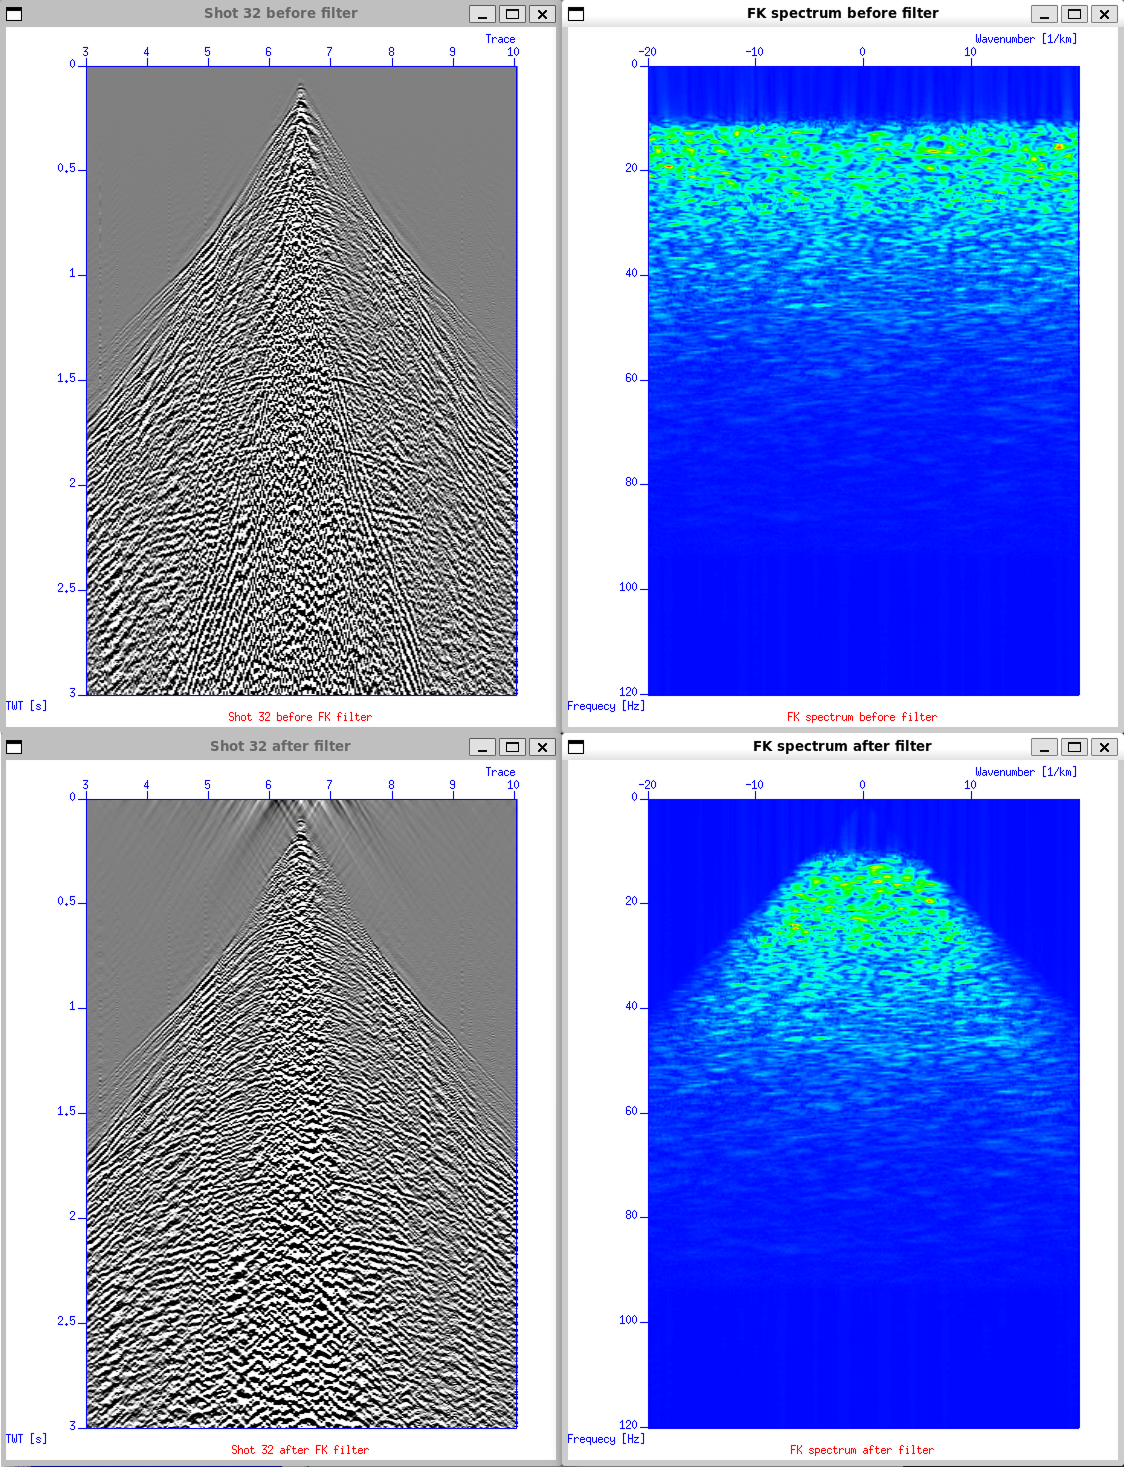
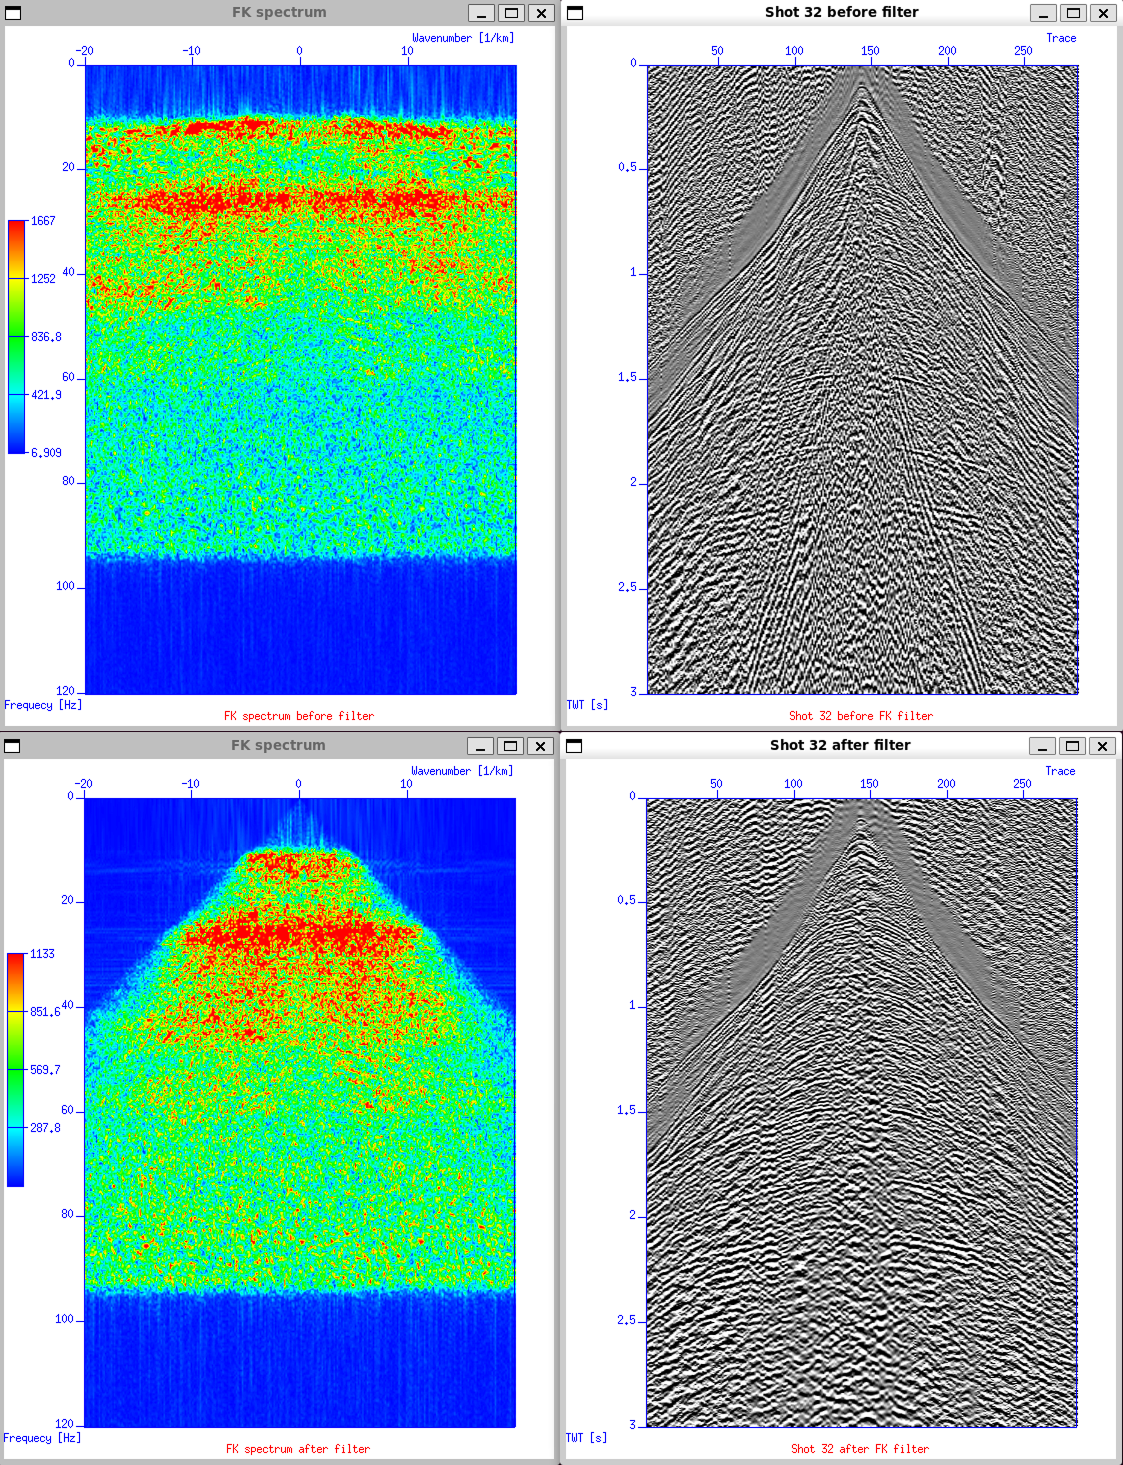
Update notes (migration)

diff --git a/Notes/5_noise_attenuation.md b/Notes/5_noise_attenuation.md
@@ -38,7 +38,7 @@ dx=0.025
 ep=32
 perc=80
 
-slopes=-0.5,-0.3,0.3,0.5
+slopes=-0.5,-0.2,0.2,0.5
 amps=0,1,1,0
 bias=0
 
@@ -57,7 +57,7 @@ suwind < $indata key=ep min=$ep max=$ep > tmp1
 suximage < tmp1 perc=$perc title="Shot $ep before FK filter" label1="TWT [s]" label2="Trace" windowtitle="Shot $ep before filter" &
 
 # Plot FK spectrum before filter
-suspecfk < tmp1 dt=$dt dx=$dx | suximage perc=97 cmap=hsv2 x1end=120 legend=1 title="FK spectrum before filter" label1="Frequecy [Hz]" label2="Wavenumber [1/km]" windowtitle="FK spectrum before filter" &
+suspecfk < tmp1 dt=$dt dx=$dx | suximage perc=97 cmap=hsv2 x1end=120 legend=1 title="FK spectrum before filter" label1="Frequecy [Hz]" label2="Wavenumber [1/km]" windowtitle="FK spectrum" &
 
 #-------------------------------------------
 #-------------- After filter ---------------
@@ -69,17 +69,17 @@ sudipfilt < tmp1 dt=$dt dx=$dx slopes=$slopes amps=$amps bias=$bias > tmp2
 suximage < tmp2 perc=$perc title="Shot $ep after FK filter" label1="TWT [s]" label2="Trace" windowtitle="Shot $ep after filter" &
 
 # Plot FK spectrum after filter
-suspecfk < tmp2 dt=$dt dx=$dx | suximage perc=97 cmap=hsv2 x1end=120 legend=1 title="FK spectrum after filter" label1="Frequecy [Hz]" label2="Wavenumber [1/km]" windowtitle="FK spectrum after filter" &
+suspecfk < tmp2 dt=$dt dx=$dx | suximage perc=97 cmap=hsv2 x1end=120 legend=1 title="FK spectrum after filter" label1="Frequecy [Hz]" label2="Wavenumber [1/km]" windowtitle="FK spectrum" &
 
 #-------------------------------------------
-# Apply FK
+#----------------- Apply FK ----------------
 #-------------------------------------------
 sudipfilt < ${indata%.su}_d2.su dt=$dt dx=$dx slopes=$slopes amps=$amps bias=$bias > $outdata
 
 rm -f tmp*
 ```
 
-The filter test presented below, the filter slopes were chosen as -0.5,-0.3,0.3,0.5. The ground roll can be efectively removed by using fk filter. The filtered data and fk spectrum shows that flat slopes at low frequency were filtered out.
+The filter test presented below, the filter slopes were chosen as -0.5,-0.2,0.2,0.5. The ground roll can be efectively removed by using fk filter. The filtered data and fk spectrum shows that flat slopes at low frequency were filtered out.
 ![fk_filter](../img/img_6.png)
 
 ## Band-pass Filter
@@ -107,7 +107,7 @@ killall xgraph
 
 # Parameter
 indata=Line_001_geom_agc_wagc0.5_d2_fk.su
-f=10,15,55,60
+f=15,20,70,80
 amps=0,1,1,0
 perc=80
 ep=32
@@ -144,21 +144,21 @@ suximage < tmp2 perc=$perc title="Shot $ep after bandpass filter (cutoff = $f)" 
 # Plot Gabor spectrogram (instantanous frequency)
 #-------------------------------------------
 # Take a few trace
-suwind < tmp2 kkey=offset min=-50 max=50 | sustack key=dt | sugabor fmax=125 band=6 | suximage xbox=990 ybox=5 wbox=330 hbox=470 cmap=hsv6 x2end=150 legend=1 label1="TWT [s]" label2="Frequency [Hz]" title="Frequency spectrum (near offset) after filter" windowtitle="Gabor spectrogram" &
+suwind < tmp2 key=offset min=-50 max=50 | sustack key=dt | sugabor fmax=125 band=6 | suximage xbox=990 ybox=5 wbox=330 hbox=470 cmap=hsv6 x2end=150 legend=1 label1="TWT [s]" label2="Frequency [Hz]" title="Frequency spectrum (near offset) after filter" windowtitle="Gabor spectrogram" &
 #-------------------------------------------
 # Plot frequency spectrum
 #-------------------------------------------
 suwind < tmp2 key=tracf min=$trace_min max=$trace_max | sufft | suamp mode=amp | suop op=db | suxgraph style=normal -geometry 330x200+665+510 x1end=250 grid1=dot grid2=dot title="Amplitude spectrum after filter (cutoff = $f)" label1="Frequency [Hz]" label2="Amplitude [dB]" windowtitle="Frequency spectrum" &
 
 #-------------------------------------------
-# Apply BPF
+#---------------- Apply BPF ----------------
 #-------------------------------------------
 sufilter < $indata f=$f amps=$amps > ${indata%.su}_bpf${f}.su
 
 rm -f tmp*
 ```
 
-The image below shows the result of the band-pass filter with cut-off frequencies of 10, 15, 70, and 80 Hz. Most of the ground-roll energy is removed after applying the filter. Increasing the low-cut frequency can further reduce noise, but it should be done carefully since it may also remove parts of the useful signal that share similar frequencies.
+The image below shows the result of the band-pass filter with cut-off frequencies of 15, 20, 70, and 80 Hz. Most of the ground-roll energy is removed after applying the filter. Increasing the low-cut frequency can further reduce noise, but it should be done carefully since it may also remove parts of the useful signal that share similar frequencies.
 ![band-pass_filter](../img/img_7.png) 
 
 ## Deconvolution
@@ -172,7 +172,7 @@ $$
 
 where $r(t)$ is the recorded trace, $w(t)$ is the source wavelet, $r(t)$ is the reflectivity, and $n(t)$ is noise. Deconvolution aims to recover $r(t)$ by minimizing the wavelet effect through inverse filtering.
 
-In practice, deconvolution in Seismic Unix can be performed using the `supef` command, which applies predictive deconvolution to enhance resolution and reduce short-period multiples. The `decon` script is shown below.
+In practice, deconvolution in Seismic Unix can be performed using the supef command, which applies predictive deconvolution to enhance resolution and suppress short-period multiples. The `decon` script is shown below. The parameters used in the predictive deconvolution process include `minlag` and `maxlag`. To determine these parameters, the autocorrelation of the trace should be analyzed prior to applying deconvolution. The `minlag` is typically chosen based on the time of the second zero crossing after the first peak, while the `maxlag` is selected according to the duration of the reverberations.
 
 ```bash
 #!/bin/sh
@@ -184,7 +184,7 @@ killall xgraph
 # Deconvolution
 
 # Parameter
-indata=Line_001_geom_agc_wagc0.5_d2_fk_bpf10,15,55,60.su
+indata=Line_001_geom_agc_wagc0.5_d2_fk_bpf15,20,70,80.su
 ep=150
 perc=95
 minlag=0.02
@@ -224,23 +224,30 @@ suximage < tmp2 perc=$perc title="Shot $ep after deconvolution" label1="TWT [s]"
 suacor < tmp2 suacor ntout=$ntout | suximage perc=80 title="Autocorrelation after deconvolution" label1="TWT [s]" label2="Offset [m]" windowtitle="Autocorrelation" &
 
 #-------------------------------------------
-# Apply deconvolution
+#----------- Apply deconvolution -----------
 #-------------------------------------------
 supef < $indata minlag=$minlag maxlag=$maxlag pnoise=$pnoise > ${indata%.su}_decon.su 
 
 rm -f tmp*
 ```
 
+The autocorrelation below shows that the second zero crossing occurs at 0.04 s, which indicates that the appropriate `minlag` is 0.04 s. The reverberation continues until approximately 0.08 s, which can be used as the `maxlag`.
+![before-decon](../img/img_8.png)
+
+After applying deconvolution, the temporal resolution increases and the reverberations are suppressed. This improvement occurs because predictive deconvolution effectively compresses the seismic wavelet and removes short-period multiples that obscure primary reflections. 
+![after-decon](../img/img_9.png)
+
 After some filtering process, we can QC the stack
 ```bash
 #!/bin/sh
 
 killall ximage
+killall xwigb
 killall xgraph
 
 # Brute stack
-data1=Line_001_geom_agc_wagc0.5_d2_fk_bpf10,15,55,60.su
-data2=Line_001_geom_agc_wagc0.5_d2_fk_bpf10,15,55,60_decon.su
+data1=Line_001_geom_agc_wagc0.5_d2_fk_bpf15,20,70,80.su
+data2=Line_001_geom_agc_wagc0.5_d2_fk_bpf15,20,70,80_decon.su
 vnmo=1700,2750,3000
 tnmo=0.1,1,2
 
@@ -256,16 +263,21 @@ suximage < filter_stack.su perc=90 cmap=hsv5 title="Brute stack V0 after FK filt
 sunmo < tmp2 vnmo=$vnmo tnmo=$tnmo | sustack > decon_stack.su
 suximage < decon_stack.su perc=90 cmap=hsv5 title="Brute stack V0 after decon" label1="Time [s]" label2="CDP" windowtitle="Brute stack" &
 
-rm -f tmp*
+rm -f *stack.su tmp*
 ```
 
 ### Brute Stack Comparison Before and After Deconvolution
-![brute_stack_before_decon](../img/img_9.png)
-![brute_stack_after_decon](../img/img_10.png)
+![brute-stack-after-decon](../img/img_10.png)
 
 Notice that the reflector is enhanced and multiples are attenuated between 1.2–1.4 s.
 
 ## Output Summary
+| Step | Description                                  | Output File                  |
+| ---- | -------------------------------------------- | ---------------------------- |
+| 1    | Dataset after spatial sampling is applied              | `Line_001_geom_agc_wagc0.5_d2.su`      |
+| 2    | Dataset after F-K filter is applied                | `Line_001_geom_agc_wagc0.5_d2_fk.su`  |
+| 3    | Dataset after band-pass filter is applied               | `Line_001_geom_agc_wagc0.5_d2_fk_bpf15,20,70,80.su`       |
+| 4    | Dataset after deconvolution is applied | `Line_001_geom_agc_wagc0.5_d2_fk_bpf15,20,70,80_decon.su` |
 
-## Parameter Summary
-*This section will be updated with a summary of the output results.*
+## Script Used
+`fk.sh`, `bpf.sh`, `decon.sh`, `brute_stack.sh`

diff --git a/Notes/6_nmo-stacking.md b/Notes/6_nmo-stacking.md
@@ -54,3 +54,58 @@ flowchart TD
 ```
 
 ## CDP Sorting
+Before performing velocity analysis, the data must first be sorted into CDP gathers. This can be done using the `susort` command with the `cdp offset` keys to reorganize the traces accordingly. Sorting the dataset into CDP order is essential because velocity analysis relies on evaluating moveout within each gather, which is only meaningful when traces belonging to the same subsurface location are grouped together.
+
+```bash
+susort cdp offset < Line_001_geom_agc_wagc0.5_d2_fk_bpf15,20,70,80_decon.su > Line_001_geom_agc_wagc0.5_d2_fk_bpf15,20,70,80_decon_cdp.su
+```
+
+## Velocity Analysis
+
+Velocity analysis is a fundamental step in seismic processing because accurate stacking velocities are required to properly align reflection events and obtain a coherent stacked section. Several velocity types exist in seismic reflection, including interval, RMS, NMO, and stacking velocity. Among these, stacking velocity is the most relevant for imaging and NMO correction.
+
+### Semblance Plot
+
+Semblance measures multichannel coherence. High semblance values indicate that reflection events are well aligned for a given trial velocity; therefore, peaks in semblance are used as velocity picks. A semblance plot displays coherence as a function of time and velocity.
+
+### Constant Velocity Stack
+
+A constant velocity stack presents panels generated by applying NMO correction with a single constant velocity across all times. Comparing these panels helps assess reflector continuity and guides velocity selection.
+
+To run the `iva.sh` script, execute `./iva.sh` after setting the required parameters. The input should be the deconvolved (in this processing sequence), CDP-sorted dataset, and you must define a filename for the velocity picks. The script will prompt for the number of picks and their CMP locations. The generated outputs include the semblance plot, the corresponding CMP gather, and the constant-velocity stack. Velocity picking is done by placing the cursor on the semblance plot and typing s; when all picks are completed, type q.
+
+In practice, initial velocity analysis is usually performed with a relatively coarse CMP interval, for example every 50 to 100 CMPs, to obtain a preliminary velocity trend. After this first pass, the analysis is repeated with a shorter interval (e.g., every 20 to 25 CMPs) in zones of structural complexity or where velocity variations are expected. This iterative refinement helps produce a smooth and geologically consistent stacking-velocity field.
+
+![iva](../img/img_11.png)
+
+After picking, the script outputs the NMO-corrected CMP gather and the derived stacking-velocity function. The velocity picks are saved in a file, typically named vpick.data. This file will later be used as input for the NMO correction step using sunmo, where the selected stacking velocities are applied to flatten reflection events prior to stacking.
+
+![iva-pick](../img/img_12.png)
+
+## Normal Moveout Correction
+
+Normal moveout (NMO) correction adjusts each trace in a CMP gather to compensate for the travel-time increase with offset. This step requires a velocity function, which in this workflow is the stacking velocity picked using the `iva.sh` script and stored in `vpick.data`. Applying NMO using these velocities flattens the reflection events across offsets, enabling coherent stacking.
+
+The NMO correction is applied using the sunmo command:
+```bash
+sunmo par=vpick.data < Line_001_geom_agc_wagc0.5_d2_fk_bpf15,20,70,80_decon_cdp.su > Line_001_v1_cdp.su
+```
+
+## Stacking
+After NMO correction, the gathers are stacked to produce a preliminary stacked section, which serves as a quality check on the initial velocity analysis. Stacking is performed using `sustack`:
+
+```bash
+sustack < Line_001_v1_cdp.su | suximage perc=90 cmap=hsv4 title="Brute stack V1 after velan" label1="Time [s]" label2="CDP" windowtitle="Brute stack" &
+```
+
+This brute stack provides an early view of reflector continuity before applying statics correction and further velocity refinement.
+
+## Output Summary
+| Step | Description                                  | Output File                  |
+| ---- | -------------------------------------------- | ---------------------------- |
+| 1    | Dataset after CDP sorted              | `Line_001_geom_agc_wagc0.5_d2_fk_bpf15,20,70,80_decon_cdp.su`      |
+| 2    | Velocity picking data                | `vpick.data`  |
+| 3    | Dataset after NMO correction               | `Line_001_v1_cdp.su`       |
+
+## Script Used
+`iva.sh`

diff --git a/Notes/7_statics_correction.md b/Notes/7_statics_correction.md
@@ -1,0 +1,46 @@
+# Statics Correction
+In this section, I show the practical workflow for applying elevation statics and residual statics to the seismic dataset. Elevation statics are normally applied before NMO, but here I apply them after obtaining the best preliminary image. This is acceptable because we can still refine the section later through tighter CMP velocity analysis.
+
+Elevation statics require two key pieces of information: the source and receiver elevations relative to a chosen datum, and the near-surface velocity used to convert elevation differences into travel-time corrections. In this dataset, the source and receiver statics (`selev` and `gelev`) have already been written into the trace headers, which can be verified using `surange`. If these values were not available, they would need to be derived from first-break picks of refracted arrivals.
+
+Elevation statics are applied using:
+
+```bash
+sustatic < Line_001_geom_agc_wagc0.5_d2_fk_bpf15,20,70,80_decon.su > Line_001_geom_agc_wagc0.5_d2_fk_bpf15,20,70,80_decon_estat.su hdrs=1
+```
+
+Here, `sustatic` applies the correction and `hdrs=1` tells SU to read statics from the headers. Shot gathers before and after the correction show improved timing consistency across offsets. The corrected dataset is then re-sorted to CMP domain using:
+
+```bash
+susort cdp offset < Line_001_geom_agc_wagc0.5_d2_fk_bpf15,20,70,80_decon_estat.su > Line_001_geom_agc_wagc0.5_d2_fk_bpf15,20,70,80_decon_estat_cdp.su
+```
+
+NMO and stacking proceed as usual:
+
+```bash
+sunmo par=vpick.data < Line_001_geom_agc_wagc0.5_d2_fk_bpf15,20,70,80_decon_estat_cdp.su | sustack > Line_001_geom_agc_wagc0.5_d2_fk_bpf15,20,70,80_decon_estat_cdp_v2.su
+```
+
+Residual statics are handled differently. In SU, the `suresstat` algorithm (following Ronen and Claerbout, 1985) is applied after NMO but still in the shot domain. The data must be resorted by `fldr`:
+
+```bash
+susort fldr offset < Line_001_geom_agc_wagc0.5_d2_fk_bpf15,20,70,80_decon_estat_cdp_v2.su > Line_001_geom_agc_wagc0.5_d2_fk_bpf15,20,70,80_decon_estat_fldr_v2.su
+```
+
+Residual statics are then estimated:
+
+```bash
+suresstat < Line_001_geom_agc_wagc0.5_d2_fk_bpf15,20,70,80_decon_estat_fldr_v2.su ssol=sstats rsol=rstats ntraces=70782 ntpick=50 niter=5 nshot=481 nr=282 nc=70782 sfold=282 rfold=282 cfold=284
+```
+
+This produces source and receiver static files (`sstats` and `rstats`). These corrections are applied via:
+
+```bash
+sustatic < Line_001_geom_agc_wagc0.5_d2_fk_bpf15,20,70,80_decon_estat_cdp_v2.su > Line_001_geom_agc_wagc0.5_d2_fk_bpf15,20,70,80_decon_estat_cdp_v2_resstat.su hdrs=3 sou_file=sstats rec_file=rstats ns=481 nr=1282
+```
+
+Finally, the corrected data are stacked:
+
+```bash
+sustack < Line_001_geom_agc_wagc0.5_d2_fk_bpf15,20,70,80_decon_estat_cdp_v2_resstat.su > Line_001_stack_v2_resstat.su
+```

diff --git a/Notes/8_migration.md b/Notes/8_migration.md
@@ -1,0 +1,22 @@
+# Migration
+In this stage, I demonstrate how to perform Post-Stack Time Migration (PoSTM) using Seismic Unix. SU provides several migration algorithms, including Stolt Migration, Gazdag or Phase-Shift Migration, Claerbout’s Migration, and others. Each method has its own strengths and limitations, but for this workflow I use the Stolt method because it is fast, stable, and well suited for post-stack data.
+
+PoSTM is applied to the stacked section that has already undergone velocity analysis and static corrections. Before migration, I apply mute and tapering to smooth the edges of the section. This step is important because sharp amplitude contrasts at the borders can introduce migration artifacts. Although `sustolt` includes internal tapering, applying an additional mute and taper beforehand helps stabilize the result.
+
+The migration is then performed using the RMS velocity field obtained from the earlier velocity analysis (here I use the RMS velocity from CMP 1000). Below is the `stoltmig` script used to apply muting, display the pre-migration stack, run Stolt Migration, and display the migrated section:
+```bash
+#!/bin/sh
+
+sumute < Line_001_stack_v2_resstat.su key=tracl xmute=1,150,1132,1132 tmute=3.0,0.2,0.2,3.0 ntaper=50 > Line_001_stack_v2_resstat_mute.su
+
+suximage < Line_001_stack_v2_resstat_mute.su key=cdp perc=90 title='Before Stolt Migration' &
+
+time=0.0187891,0.494781,0.914405,1.37787,1.94781,2.90605
+vels=1992.35,2211.92,2488.77,2765.61,2975.64,3319.31
+
+sustolt < Line001_stack_vel2_elev_rstat_mute.su cdpmin=1 cdpmax=1282 dxcdp=50 tmig=$time vmig=$vels smig=0.6 vscale=1 lstaper=50 lbtaper=50 | suximage title="After Stolt Migration" key=cdp min=100 max=1100 perc=90 verbose=0 &
+```
+
+Run the script by `./stoltmig.sh`
+
+The first display shows the stacked section before migration. After running the script, the second display shows the section after Stolt Migration.

diff --git a/Notes/4_gain_testing.md b/Notes/4_gain_testing.md
@@ -160,5 +160,5 @@ This step can actually be shortened by using command piping (`|`) instead of cre
 | 4    | Single shot after time-power gain (tpow = 2) | `Line_001_geom_ep32_tpow.su` |
 | 5    | Full dataset after time-power gain applied   | `Line_001_geom_tpow.su`      |
 
-## Parameter Summary
-> `sugain` using `agc`, `sugain` using `tpow=2`
+## Script Used
+`gain.sh`
